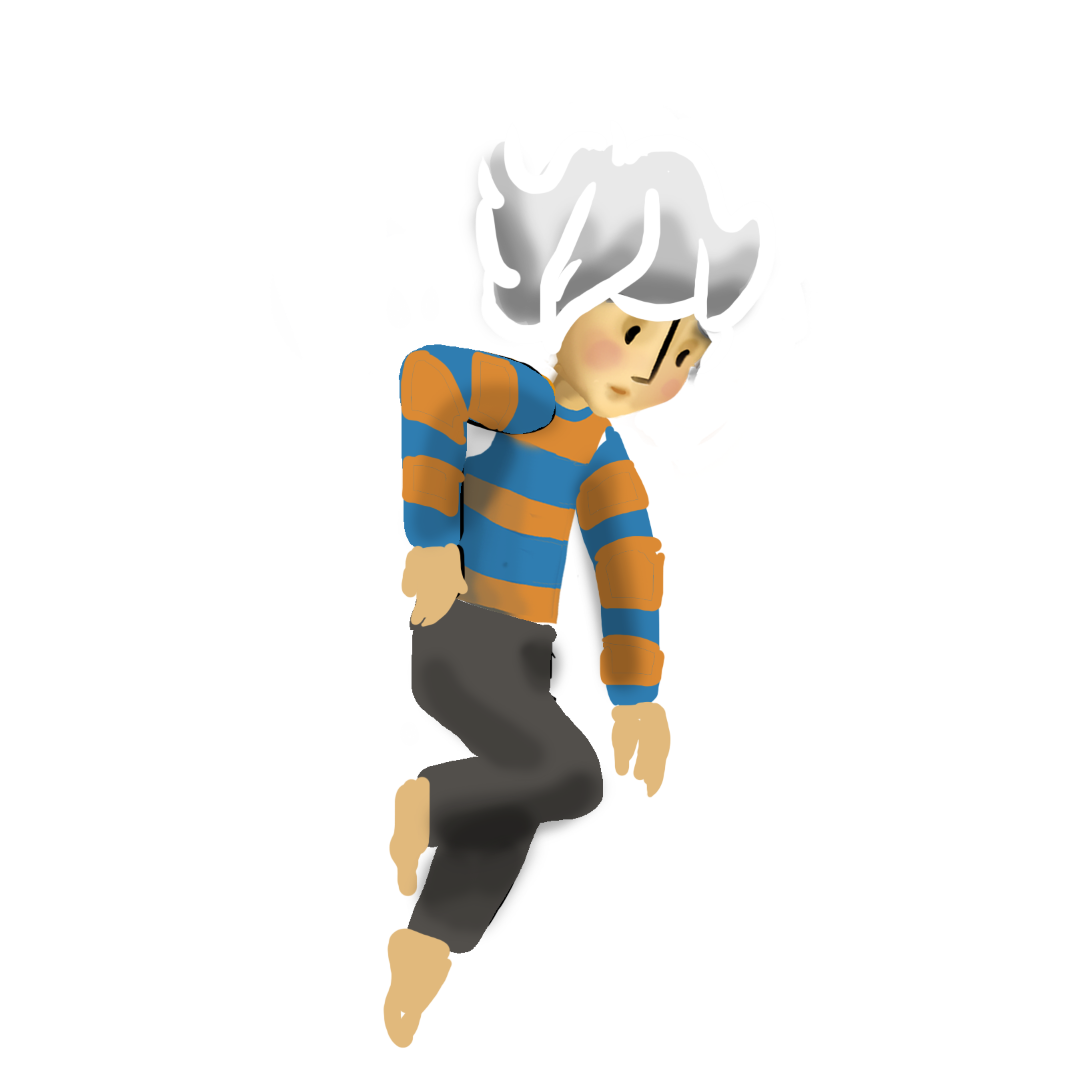
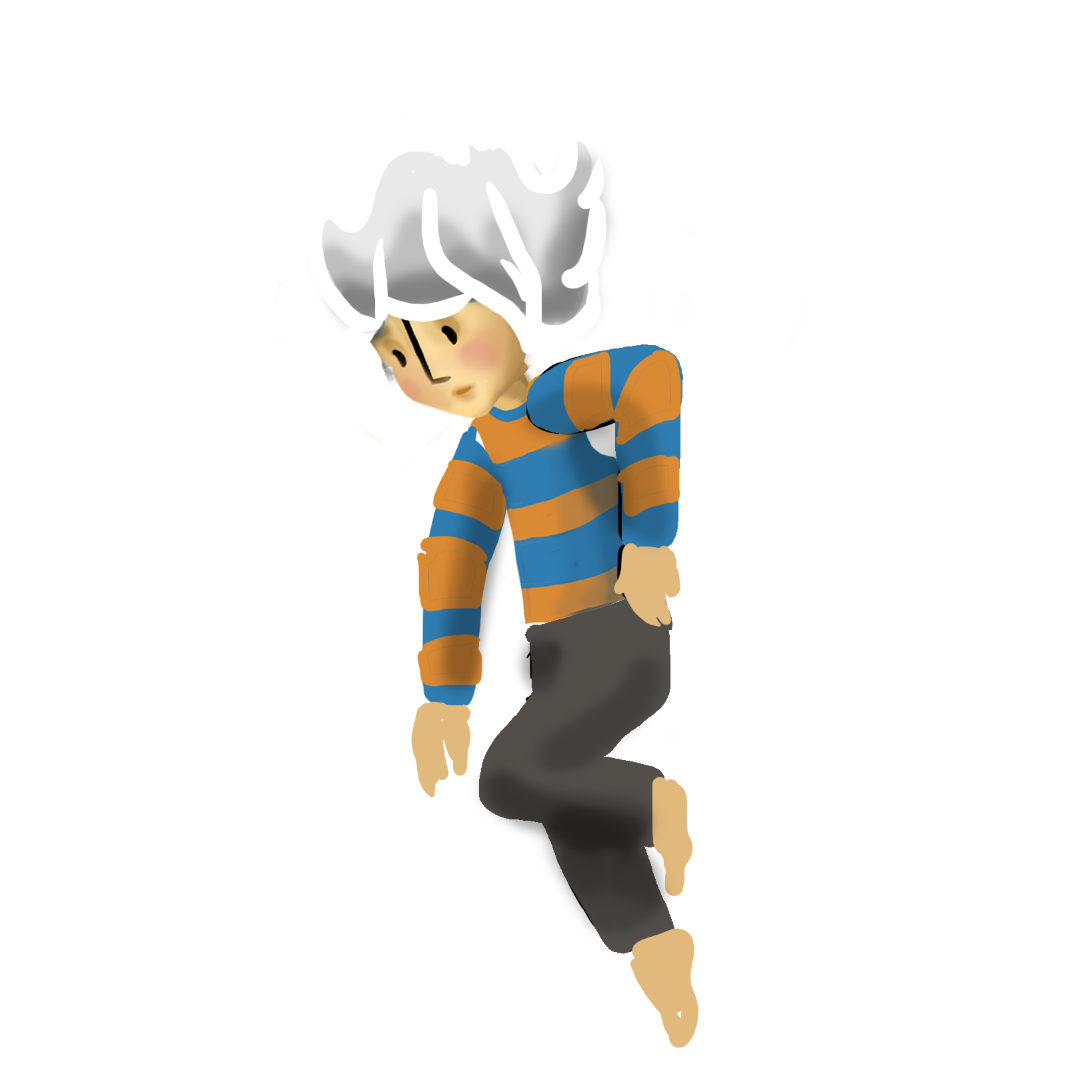
Fix wallslide sometimes being wrong direction

Changed region(s): [[0.2745, 0.122, 0.7015, 0.976]]

diff --git a/Assets/Scripts/Player.cs b/Assets/Scripts/Player.cs
@@ -355,7 +355,14 @@ public class Player : MonoBehaviour
 			}
 		}
 
-		sr.flipX = !facingLeft; //change this if sprites face right
+		if (animState == AnimState.WALLSLIDE)
+		{
+			sr.flipX = wallSide > 0;
+		}
+		else
+		{
+			sr.flipX = !facingLeft; //change this if sprites face right
+		}
 
 		rb.velocity = velocity;
 		rb.MovePosition(rb.position + velocity * Time.fixedDeltaTime + offset);

diff --git a/README.md b/README.md
@@ -4,7 +4,6 @@ Exploration and puzzle-based platformer
 ## TODO
 
 ### Movement
-- Sliding down when just off of platform edge is wrong sprite direction
 - Call floats "speed" instead of "vel" or "velocity" (since velocity is a vector)
 - Rotating platforms (spin, wait, etc.)
 - Vanishing platforms (when touched, shake, crumble, respawn)
